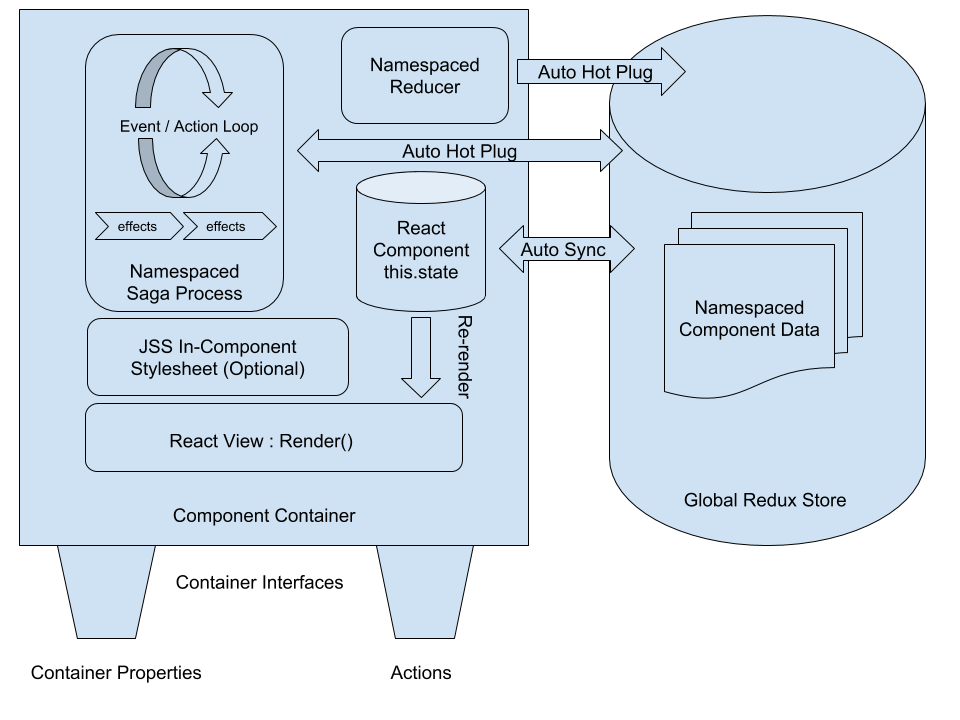
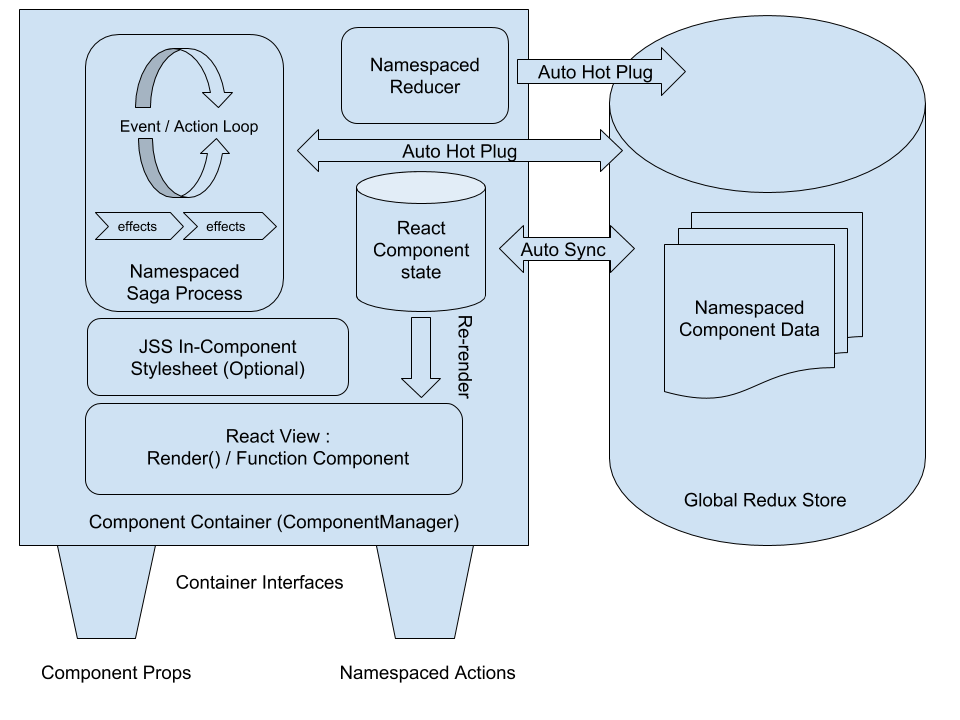
updated documents

diff --git a/README.md b/README.md
@@ -18,6 +18,7 @@ In order to achieve that, `fractal-component` introduce the following features t
 - Namespaced Redux Store
 - Auto Component State Management & Redux Store Mapping
 - Enhanced Server Side Rendering (SSR) Support
+- Support React [Function Components](https://reactjs.org/docs/components-and-props.html#function-and-class-components) via [React Hooks API](https://reactjs.org/docs/hooks-custom.html) (See [Example App](examples/exampleAppHooks))
 
 With `fractal-component`, you can create reusable [Container Components](https://redux.js.org/basics/usagewithreact#presentational-and-container-components) and construct scalable [fractal architecture](https://www.metropolismag.com/architecture/science-for-designers-scaling-and-fractals/) application while still enjoy the convenience of [Redux dev tool](https://github.com/zalmoxisus/redux-devtools-extension) & predictable single global store.
 
@@ -80,6 +81,7 @@ Alternatively, you may use the UMD builds from [unpkg](https://unpkg.com/fractal
 ## Changelog
 
 ** New: Added React [New Context API support](https://reactjs.org/docs/context.html) (Requires React Version 16.6.0 and above)
+** New: Support Function Component via [New Hooks API](https://reactjs.org/docs/hooks-custom.html) (Requires React Version 16.8.0 and above)
 
 Please find the complete Changelog from [here](./CHANGES.md).
 
